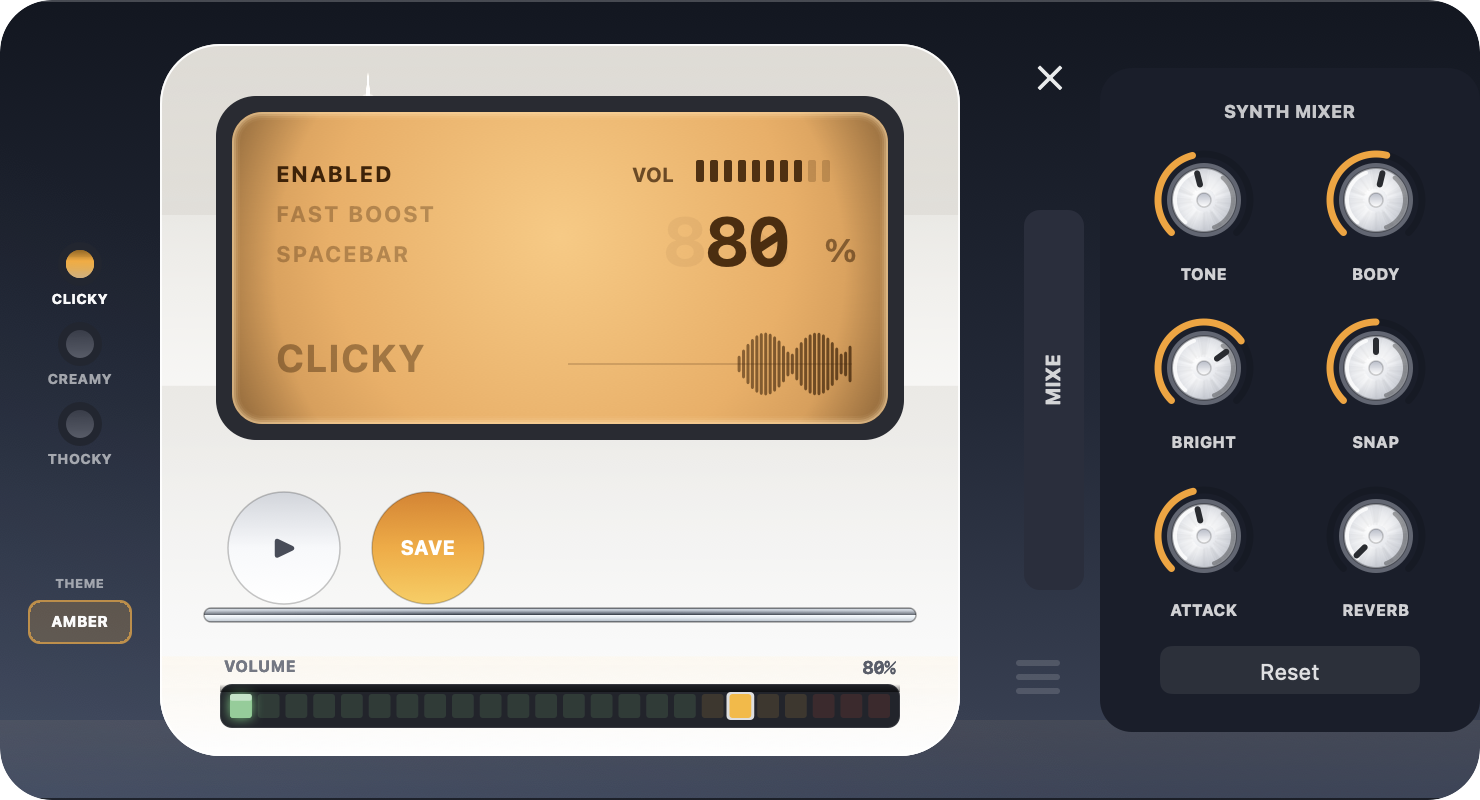
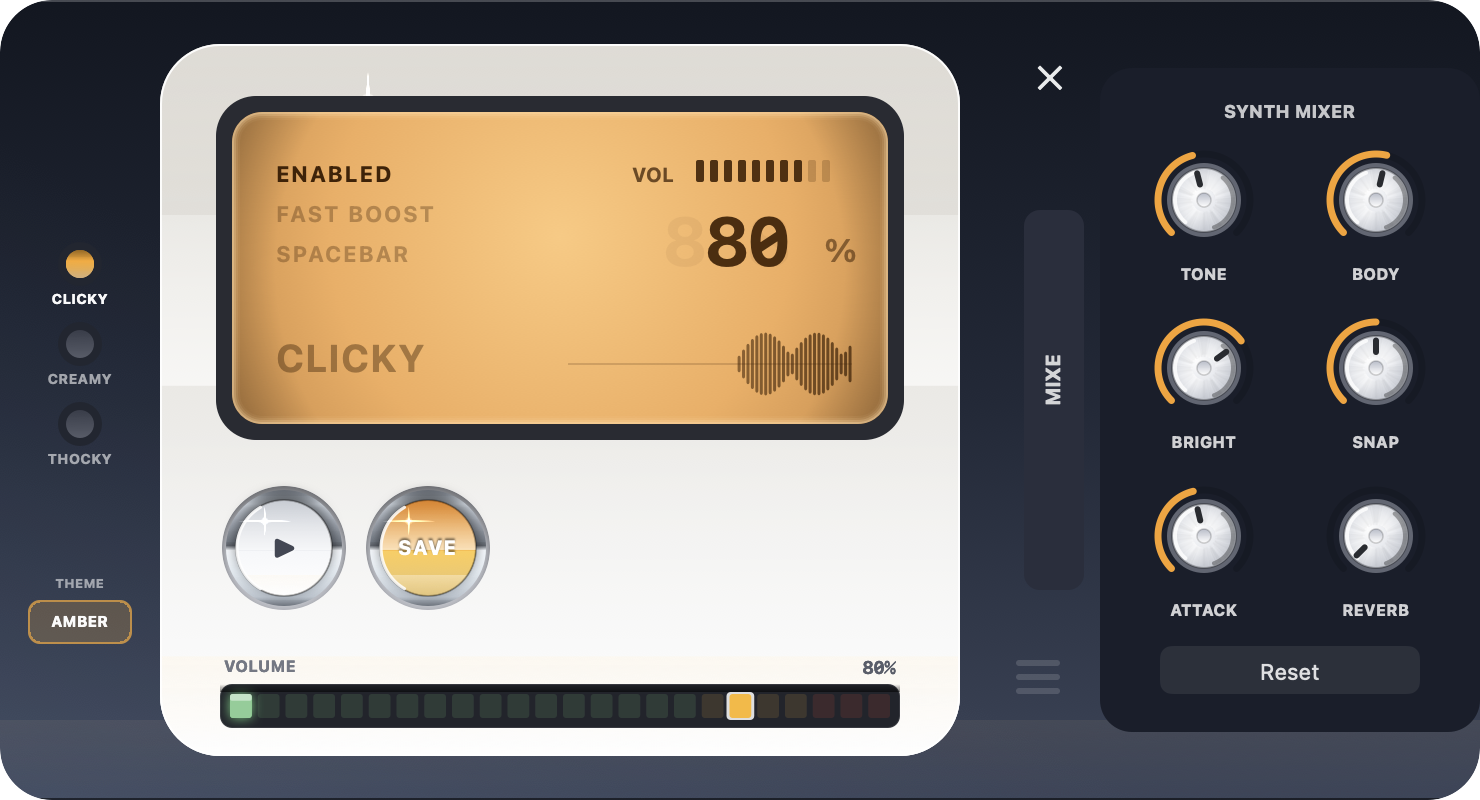
Fix system alert beep; rebuild buttons with real depth
The beep on clicking a pack was a focus bug, not an audio one. A
borderless NSWindow returns false from canBecomeKey/canBecomeMain by
default, so the panel could never take focus — events fell through
unhandled to NSApp, which answers with the system alert sound. A
PanelWindow subclass overriding both fixes it.

Buttons rebuilt as layered objects rather than a filled circle:
recessed socket with inner shadow, chrome collar using the non-monotonic
horizon ramp, a domed cap that casts its own shadow onto the collar, a
hard-terminated gloss band at the equator, warm bounce along the lower
rim, a bright catch-light arc on the top edge, embossed label, and a
star glint on the gloss peak. Pressing swaps the gradient, sinks the cap
1px, and collapses its shadow.

Removed the chrome trim rail under the buttons.

Restored compatCGPath, innerShadow and arc helpers, which had gone with
the deleted V1 skin file and were needed again here.

Changed region(s): [[0.1243, 0.5938, 0.6216, 0.7812]]

diff --git a/Sources/Klack/PlasticSkinViews.swift b/Sources/Klack/PlasticSkinViews.swift
@@ -3,6 +3,28 @@ import Cocoa
 // V2 skin: dark chassis + glossy white plastic plate + backlit amber display.
 // All views are `isFlipped` so coordinates match the Figma reference directly.
 
+extension NSBezierPath {
+    /// `NSBezierPath.cgPath` is macOS 14+, but Klack targets 12 — walk the
+    /// elements instead so the inner-shadow routine works everywhere.
+    var compatCGPath: CGPath {
+        let path = CGMutablePath()
+        var points = [NSPoint](repeating: .zero, count: 3)
+        for i in 0..<elementCount {
+            switch element(at: i, associatedPoints: &points) {
+            case .moveTo: path.move(to: points[0])
+            case .lineTo: path.addLine(to: points[0])
+            case .curveTo, .cubicCurveTo:
+                path.addCurve(to: points[2], control1: points[0], control2: points[1])
+            case .quadraticCurveTo:
+                path.addQuadCurve(to: points[1], control: points[0])
+            case .closePath: path.closeSubpath()
+            @unknown default: break
+            }
+        }
+        return path
+    }
+}
+
 /// A full colour scheme for the panel. Everything tinted — backlight, LEDs,
 /// accents, meter ramp, even the chassis temperature — comes from here, so
 /// switching themes restyles the whole instrument rather than recolouring
@@ -206,6 +228,44 @@ enum Plastic {
             (1.00, NSColor(white: 1, alpha: 0.22)),
         ])?.draw(in: r, angle: 0)
         NSGraphicsContext.restoreGraphicsState()
+    }
+
+    /// Core Graphics has no inner-shadow primitive. Clipping to the shape and
+    /// filling with `.sourceOut` inside a transparency layer puts the shadow of
+    /// the *inverted* shape inside the path, which is the standard trick.
+    static func innerShadow(in path: NSBezierPath, offset: NSSize, blur: CGFloat, alpha: CGFloat) {
+        guard let ctx = NSGraphicsContext.current?.cgContext else { return }
+        ctx.saveGState()
+        ctx.addPath(path.compatCGPath)
+        ctx.clip()
+        ctx.setAlpha(alpha)
+        ctx.beginTransparencyLayer(auxiliaryInfo: nil)
+        ctx.setShadow(offset: offset, blur: blur, color: NSColor.black.cgColor)
+        ctx.setBlendMode(.sourceOut)
+        ctx.beginTransparencyLayer(auxiliaryInfo: nil)
+        ctx.setFillColor(NSColor.black.cgColor)
+        ctx.addPath(path.compatCGPath)
+        ctx.fillPath()
+        ctx.endTransparencyLayer()
+        ctx.endTransparencyLayer()
+        ctx.restoreGState()
+    }
+
+    /// Arc sampled as points rather than `addArc`, so it doesn't depend on
+    /// flipped-context winding conventions. Degrees are clockwise from 12.
+    static func arc(center: NSPoint, radius: CGFloat, fromDeg: CGFloat, toDeg: CGFloat,
+                    color: NSColor, width: CGFloat) {
+        let path = NSBezierPath()
+        let steps = 48
+        for i in 0...steps {
+            let d = (fromDeg + (toDeg - fromDeg) * CGFloat(i) / CGFloat(steps)) * .pi / 180
+            let p = NSPoint(x: center.x + sin(d) * radius, y: center.y - cos(d) * radius)
+            if i == 0 { path.move(to: p) } else { path.line(to: p) }
+        }
+        path.lineWidth = width
+        path.lineCapStyle = .round
+        color.setStroke()
+        path.stroke()
     }
 
     /// Anamorphic star glint — the era's punctuation mark on a gloss peak.
@@ -418,15 +478,6 @@ final class PlasticPlateView: NSView {
         ])?.draw(in: lip, angle: -90)
 
         NSGraphicsContext.restoreGraphicsState()
-
-        // Chrome trim rail across the lower plate — the mirrored horizon is
-        // what pulls the whole panel toward metal rather than plastic.
-        let rail = NSBezierPath(roundedRect: NSRect(x: 22, y: bounds.height - 74, width: bounds.width - 44, height: 7),
-                                xRadius: 3.5, yRadius: 3.5)
-        Plastic.drawChrome(in: rail)
-        NSColor(white: 0, alpha: 0.35).setStroke()
-        rail.lineWidth = 0.75
-        rail.stroke()
 
         // Moulded edges.
         let inner = NSBezierPath(roundedRect: bounds.insetBy(dx: 0.5, dy: 0.5), xRadius: 29.5, yRadius: 29.5)
@@ -959,39 +1010,106 @@ final class RoundButton: NSButton {
     private var pressed = false
 
     override func draw(_ dirtyRect: NSRect) {
-        let r = min(bounds.width, bounds.height) / 2 - 4
+        let th = Theme.current
+        let outerR = min(bounds.width, bounds.height) / 2 - 1
         let c = NSPoint(x: bounds.midX, y: bounds.midY)
-        let rect = NSRect(x: c.x - r, y: c.y - r, width: r * 2, height: r * 2)
+
+        // 1. Recessed socket the button sits down inside.
+        let socketRect = NSRect(x: c.x - outerR, y: c.y - outerR, width: outerR * 2, height: outerR * 2)
+        let socket = NSBezierPath(ovalIn: socketRect)
+        NSColor(srgbRed: 0.74, green: 0.75, blue: 0.78, alpha: 1).setFill()
+        socket.fill()
+        Plastic.innerShadow(in: socket, offset: NSSize(width: 0, height: 2), blur: 4, alpha: 0.45)
+
+        // 2. Chrome collar — the mirrored horizon reads as a machined bezel.
+        let collarR = outerR - 2
+        let collar = NSBezierPath(ovalIn: NSRect(x: c.x - collarR, y: c.y - collarR,
+                                                 width: collarR * 2, height: collarR * 2))
+        Plastic.drawChrome(in: collar)
+
+        // 3. The cap itself, domed and inset from the collar.
+        let r = collarR - 5
+        let rect = NSRect(x: c.x - r, y: c.y - r + (pressed ? 1 : 0), width: r * 2, height: r * 2)
         let path = NSBezierPath(ovalIn: rect)
+
+        // Cast shadow under the cap so it floats above the collar.
+        NSGraphicsContext.saveGraphicsState()
+        let drop = NSShadow()
+        drop.shadowColor = NSColor(white: 0, alpha: pressed ? 0.30 : 0.55)
+        drop.shadowOffset = NSSize(width: 0, height: pressed ? -1 : -3)
+        drop.shadowBlurRadius = pressed ? 3 : 7
+        drop.set()
+        NSColor.black.setFill()
+        path.fill()
+        NSGraphicsContext.restoreGraphicsState()
 
         NSGraphicsContext.saveGraphicsState()
         path.addClip()
         if isAccent {
-            let th = Theme.current
             Plastic.gradient([
-                (0, th.accentTop), (0.5, th.accentMid), (1, th.accentBottom),
+                (0.00, th.accentTop.highlight(withLevel: 0.35) ?? th.accentTop),
+                (0.46, th.accentTop),
+                (0.50, th.accentMid),
+                (1.00, th.accentBottom),
             ])?.draw(in: rect, angle: pressed ? 90 : -90)
         } else {
             Plastic.gradient([
-                (0, NSColor(white: 1, alpha: 1)),
-                (0.5, NSColor(srgbRed: 0.97, green: 0.975, blue: 0.985, alpha: 1)),
-                (1, NSColor(srgbRed: 0.82, green: 0.835, blue: 0.86, alpha: 1)),
+                (0.00, NSColor(white: 1.0, alpha: 1)),
+                (0.46, NSColor(srgbRed: 0.965, green: 0.970, blue: 0.980, alpha: 1)),
+                (0.50, NSColor(srgbRed: 0.895, green: 0.905, blue: 0.925, alpha: 1)),
+                (1.00, NSColor(srgbRed: 0.78, green: 0.80, blue: 0.83, alpha: 1)),
             ])?.draw(in: rect, angle: pressed ? 90 : -90)
         }
+
+        // Broad specular across the top half, hard-terminated at the equator —
+        // the same trick that makes the plate read as lacquered.
+        let gloss = NSRect(x: rect.minX, y: rect.minY, width: rect.width, height: rect.height * 0.52)
+        Plastic.gradient([
+            (0.00, NSColor(white: 1, alpha: pressed ? 0.30 : 0.62)),
+            (0.85, NSColor(white: 1, alpha: 0.06)),
+            (1.00, NSColor(white: 1, alpha: 0.0)),
+        ])?.draw(in: gloss, angle: -90)
+
+        // Warm bounce along the lower rim.
+        let bounce = NSRect(x: rect.minX, y: rect.maxY - rect.height * 0.22,
+                            width: rect.width, height: rect.height * 0.22)
+        Plastic.gradient([
+            (0, NSColor(white: 1, alpha: 0)),
+            (1, Plastic.bounceLight.withAlphaComponent(0.40)),
+        ])?.draw(in: bounce, angle: -90)
         NSGraphicsContext.restoreGraphicsState()
 
-        NSColor(white: 0, alpha: 0.22).setStroke()
-        path.lineWidth = 0.75
+        // 4. Rim: dark seat all round, bright catch-light along the top arc.
+        NSColor(white: 0, alpha: 0.30).setStroke()
+        path.lineWidth = 1
         path.stroke()
+        Plastic.arc(center: NSPoint(x: rect.midX, y: rect.midY), radius: r - 0.5,
+                 fromDeg: -150, toDeg: -30, color: NSColor(white: 1, alpha: 0.85), width: 1.6)
 
+        // 5. Label.
         let text = glyph.isEmpty ? title : glyph
         let attrs: [NSAttributedString.Key: Any] = [
             .font: NSFont.systemFont(ofSize: glyph.isEmpty ? 10 : 15, weight: .bold),
-            .foregroundColor: isAccent ? NSColor.white : NSColor(srgbRed: 0.28, green: 0.30, blue: 0.35, alpha: 1),
+            .foregroundColor: isAccent ? NSColor.white : NSColor(srgbRed: 0.26, green: 0.28, blue: 0.33, alpha: 1),
+            .kern: glyph.isEmpty ? 0.6 : 0.0,
         ]
         let s = NSAttributedString(string: text, attributes: attrs)
         let size = s.size()
-        s.draw(at: NSPoint(x: c.x - size.width / 2, y: c.y - size.height / 2))
+        let shadow = NSShadow()
+        shadow.shadowColor = NSColor(white: isAccent ? 0 : 1, alpha: 0.5)
+        shadow.shadowOffset = NSSize(width: 0, height: isAccent ? -1 : 1)
+        shadow.shadowBlurRadius = 1
+        let embossed = NSMutableAttributedString(attributedString: s)
+        embossed.addAttribute(.shadow, value: shadow, range: NSRange(location: 0, length: embossed.length))
+        embossed.draw(at: NSPoint(x: c.x - size.width / 2,
+                                  y: c.y - size.height / 2 + (pressed ? 1 : 0)))
+
+        // 6. Glint on the gloss peak.
+        if !pressed {
+            Plastic.drawGlint(at: NSPoint(x: rect.minX + rect.width * 0.30,
+                                          y: rect.minY + rect.height * 0.22),
+                              length: r * 0.55, alpha: 0.45)
+        }
     }
 
     override func mouseDown(with event: NSEvent) {

diff --git a/Sources/Klack/ShowcaseWindowController.swift b/Sources/Klack/ShowcaseWindowController.swift
@@ -1,5 +1,15 @@
 import Cocoa
 
+/// A borderless NSWindow returns false from `canBecomeKey`/`canBecomeMain` by
+/// default, so it can never take focus. Events then fall through unhandled to
+/// NSApp, which answers with the system alert beep — the "funk" sound you get
+/// when a keypress goes nowhere. Overriding both stops the beeping and lets
+/// the panel's controls behave normally.
+final class PanelWindow: NSWindow {
+    override var canBecomeKey: Bool { true }
+    override var canBecomeMain: Bool { true }
+}
+
 /// Klack's control panel — a dark chassis with a glossy white plastic plate,
 /// a backlit amber display, and machined rotary controls. Layout mirrors the
 /// Figma reference. The menu-bar dropdown remains the everyday interface;
@@ -50,7 +60,7 @@ final class ShowcaseWindowController: NSWindowController, NSWindowDelegate {
         self.keyTap = keyTap
         self.onClosed = onClosed
 
-        let window = NSWindow(
+        let window = PanelWindow(
             contentRect: NSRect(x: 0, y: 0, width: 560, height: 400),
             styleMask: [.borderless],
             backing: .buffered,
